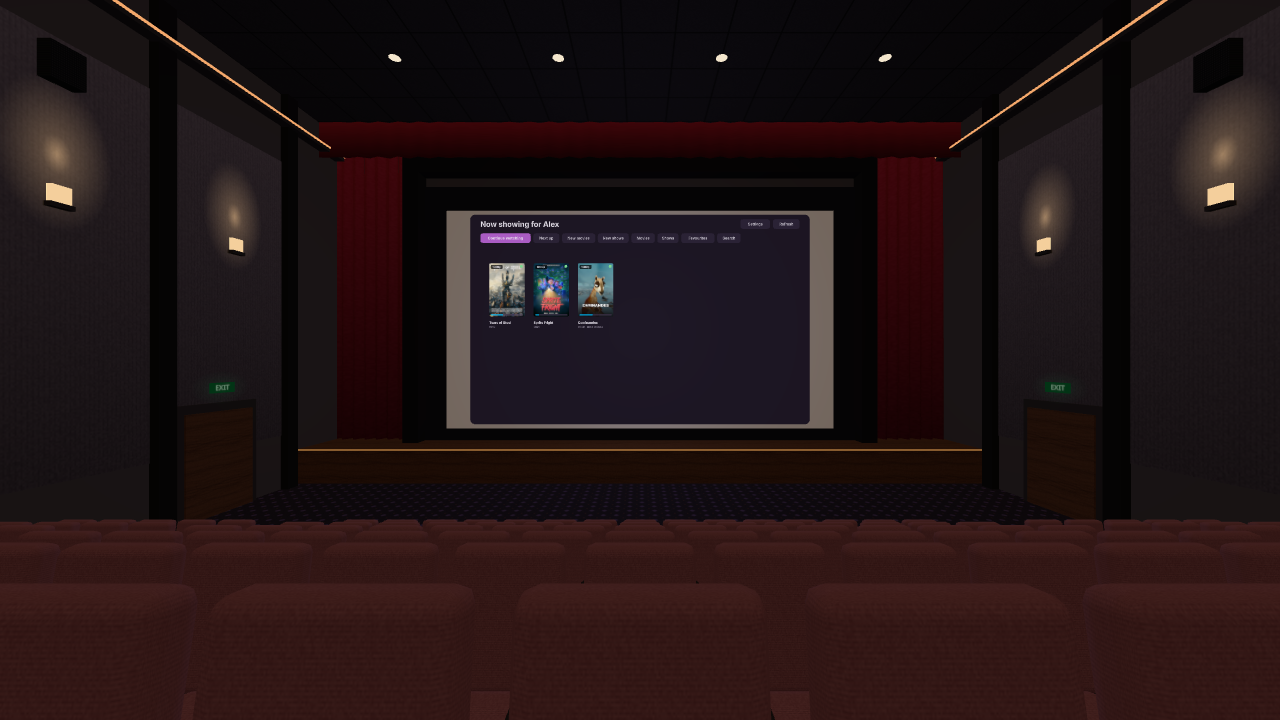
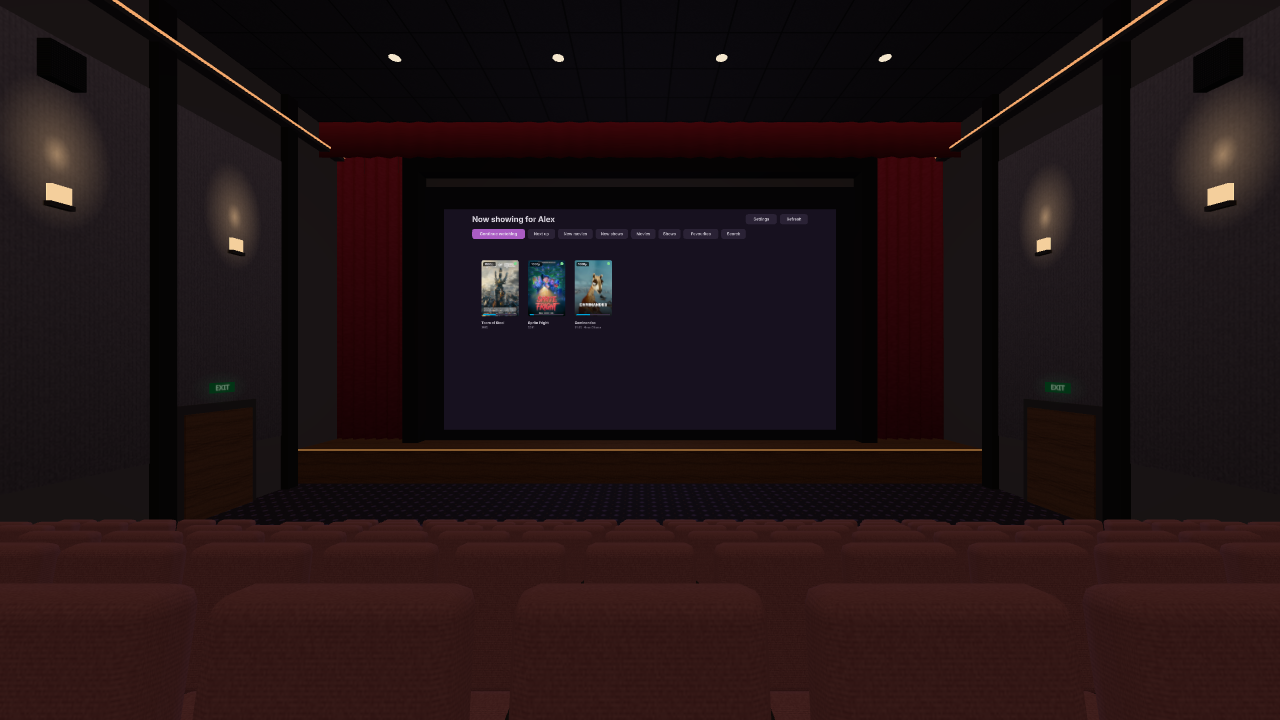
v0.2.8: the library fills the big screen
On the cinema screen the library's background (and its compositor layer)
covers the whole screen: square corners, opaque, slightly overlapping so
the screen doesn't show at an angle. The idle screen returns to 16:9 after
a film of another shape.

Changed region(s): [[0.3438, 0.275, 0.6562, 0.6111]]

diff --git a/src/ui/library-panel.js b/src/ui/library-panel.js
@@ -78,6 +78,11 @@ AFRAME.registerComponent('library-panel', {
 	schema: {
 		// The on-screen keyboard (kept at lap height, outside the panel).
 		keyboard: { type: 'selector', default: '[ui-keyboard]' },
+		// On the big screen: the screen's size in panel units, which the
+		// background fills edge to edge (square corners, opaque). 0: a floating
+		// panel with rounded corners.
+		fillWidth: { type: 'number', default: 0 },
+		fillHeight: { type: 'number', default: 0 },
 	},
 
 	init() {
@@ -97,7 +102,8 @@ AFRAME.registerComponent('library-panel', {
 		this.searchTimer = null;
 		this.signInActive = false;
 
-		this.el.append(entity({ 'ui-rect': `width: ${WIDTH}; height: ${HEIGHT}; radius: 0.04; opacity: 0.95` }));
+		this.background = entity({ 'ui-rect': `width: ${WIDTH}; height: ${HEIGHT}; radius: 0.04; opacity: 0.95` });
+		this.el.append(this.background);
 		this.heading = entity({ position: `${LEFT} ${TOP - 0.065} 0.002`, 'ui-text': 'value: Now showing; fontSize: 0.05; weight: bold; anchorX: left' });
 		this.refreshButton = this.button({ label: 'Refresh', width: 0.18 }, RIGHT - 0.09, TOP - 0.065, () => this.el.emit('refresh-request'));
 		this.settingsButton = this.button({ label: 'Settings', width: 0.2 }, RIGHT - 0.18 - 0.02 - 0.1, TOP - 0.065, () => this.el.emit('settings-request'));
@@ -122,6 +128,20 @@ AFRAME.registerComponent('library-panel', {
 		this.onKeyDown = this.onKeyDown.bind(this);
 		window.addEventListener('keydown', this.onKeyDown);
 		this.render();
+	},
+
+	update() {
+		const { fillWidth, fillHeight } = this.data;
+		const fill = fillWidth > 0 && fillHeight > 0;
+		const frame = fill
+			? { width: Math.max(fillWidth, WIDTH), height: Math.max(fillHeight, HEIGHT), radius: 0 }
+			: { width: WIDTH, height: HEIGHT, radius: 0.04 };
+		this.background.setAttribute('ui-rect', { ...frame, opacity: fill ? 1 : 0.95 });
+		// The crisp compositor layer (and its hole) take the same outline.
+		const layer = this.el.getAttribute('panel-layer');
+		if (layer && (layer.width !== frame.width || layer.height !== frame.height || layer.radius !== frame.radius)) {
+			this.el.setAttribute('panel-layer', frame);
+		}
 	},
 
 	remove() {

diff --git a/src/main.js b/src/main.js
@@ -80,8 +80,13 @@ const environment = () => environmentEl.components[environments[currentEnvironme
 function placeLibrary() {
 	const object = libraryEl.object3D;
 	if (getSetting('menuOnScreen')) {
+		// Fill the idle (16:9) screen edge to edge, overlapping it slightly so
+		// it doesn't peek out at an angle.
 		const { maxWidth, maxHeight } = environments[currentEnvironment].layout.screen;
-		const scale = Math.min(maxWidth / 2.3, maxHeight / 1.42) * 0.96;
+		const width = Math.min(maxWidth, maxHeight * 16 / 9) * 1.01;
+		const height = width * 9 / 16;
+		const scale = Math.min(width / 2.3, height / 1.42);
+		libraryEl.setAttribute('library-panel', { fillWidth: width / scale, fillHeight: height / scale });
 		// Follow the screen's actual pose (it can be moved in passthrough).
 		screenEl.object3D.updateMatrixWorld();
 		const world = new THREE.Matrix4()
@@ -91,6 +96,7 @@ function placeLibrary() {
 		world.premultiply(new THREE.Matrix4().copy(rigEl.object3D.matrixWorld).invert());
 		world.decompose(object.position, object.quaternion, object.scale);
 	} else {
+		libraryEl.setAttribute('library-panel', { fillWidth: 0, fillHeight: 0 });
 		// 2 m away, or closer in a small room (scaled to look the same).
 		const distance = environments[currentEnvironment].layout.menuDistance ?? 2;
 		object.position.set(0, 1.28, -distance);

diff --git a/src/player/video-screen.js b/src/player/video-screen.js
@@ -152,6 +152,8 @@ AFRAME.registerComponent('video-screen', {
 		const showing = this.player?.isActive && this.video.readyState >= 2;
 		if (!showing) {
 			this.destroyLayer();
+			// Idle, the screen goes back to 16:9 (the library fills it).
+			if (!this.player?.isActive && Math.abs(this.size.width / this.size.height - 16 / 9) > 0.01) this.fit(16 / 9);
 			this.mesh.material = this.idleMaterial;
 			return;
 		}

diff --git a/docs/TECHNICAL.md b/docs/TECHNICAL.md
@@ -163,3 +163,5 @@ Next features are in the [README roadmap](../README.md#roadmap).
 - **v0.2.7**: `https://` prefilled and plain-HTTP servers explained; keyboard
   click sound and press colour; 12/24-hour clock setting; a gentler screen
   light in small rooms and a dimmer space station.
+- **v0.2.8**: the library fills the big screen edge to edge (the idle screen
+  returns to 16:9 after a film).
